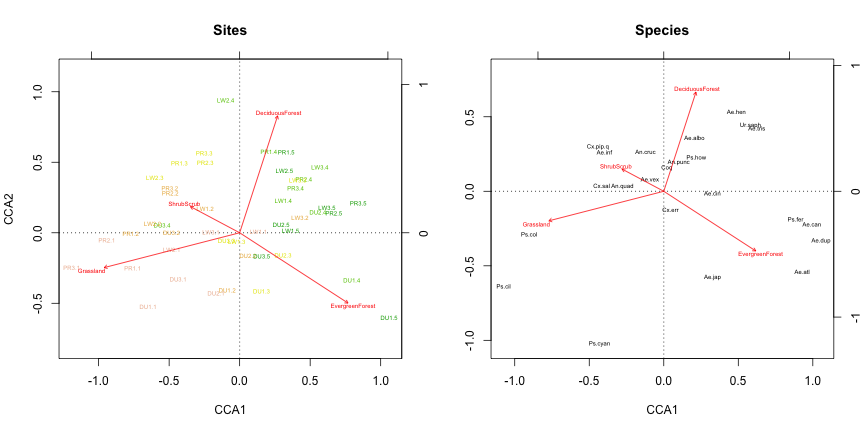
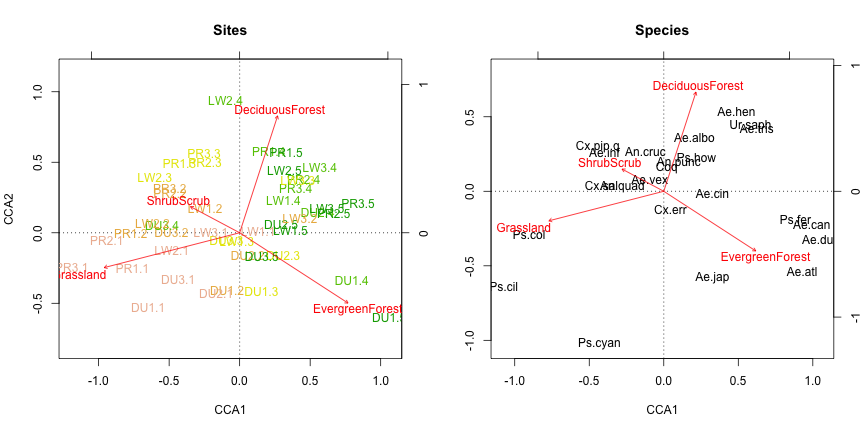
fix fig size

diff --git a/_posts/2017-05-23-mosquito-community-ecology-in-vegan.md b/_posts/2017-05-23-mosquito-community-ecology-in-vegan.md
@@ -1,5 +1,5 @@
 ---
-title: "Mosquito community diversity analysis in vegan"
+title: "Mosquito community diversity analysis with vegan"
 layout: post
 date: 2017-05-23
 tags: R tutorial ecology mosquitoes vegan
@@ -260,7 +260,7 @@ plot(my.ca)
 
 <img src="/assets/Rfigs/post_2017-04_mosquito-ecology_ca_biplot-1.png" title="plot of chunk post_2017-04_mosquito-ecology_ca_biplot" alt="plot of chunk post_2017-04_mosquito-ecology_ca_biplot" style="display: block; margin: auto;" />
 
-It is a bit difficult to see what is going on here. Let's see if we can make a visualization that is a little easier to understand. One thing we can try is adjusting the scaling of the site and species scores in our plot. The `plot.cca` function (which is called when you use `plot` on a `cca` results) has an argument `scaling` that takes four values: 0 = no scaling, 1 = sites scores are scaled by eigenvalues, 2 = species scores are scaled by eigenvalues (the default), and 3 = both species and site scores are scaled by eigenvalues (alternatively, options 0-3 can be specified less cryptically with the character strings "none", "sites", "species", and "symmetric"). Under option 1, site scores are weighted averages of species scores, and under option 2, species scores are weighted averages of site scores. Option 3 is a compromise between options 1 and 2, and is generally a [good option](https://academic.oup.com/biomet/article-abstract/89/2/423/255280/Goodness-of-fit-of-biplots-and-correspondence?redirectedFrom=fulltext) for displaying sites and species in one plot. 
+There are a few ways we can alter this plot to try to get a better picture of the data. One thing we can try is adjusting the scaling of the site and species scores in our plot. The `plot.cca` function (which is called when you use `plot` on a `cca` results) has an argument `scaling` that takes four values: 0 = no scaling, 1 = sites scores are scaled by eigenvalues, 2 = species scores are scaled by eigenvalues (the default), and 3 = both species and site scores are scaled by eigenvalues (alternatively, options 0-3 can be specified less cryptically with the character strings "none", "sites", "species", and "symmetric"). Under option 1, site scores are weighted averages of species scores, and under option 2, species scores are weighted averages of site scores. Option 3 is a compromise between options 1 and 2, and is generally a [good option](https://academic.oup.com/biomet/article-abstract/89/2/423/255280/Goodness-of-fit-of-biplots-and-correspondence?redirectedFrom=fulltext) for displaying sites and species in one plot. 
 
 Here is the effect these different options have on our plot:
 
@@ -276,7 +276,7 @@ plot(my.ca, scaling="symmetric", main="scaling = 3, both")
 
 <img src="/assets/Rfigs/post_2017-04_mosquito-ecology_ca_4biplot-1.png" title="plot of chunk post_2017-04_mosquito-ecology_ca_4biplot" alt="plot of chunk post_2017-04_mosquito-ecology_ca_4biplot" style="display: block; margin: auto;" />
 
-An alternative way to make more space on our plot is to simply display the sites and species on separate plots. Let's also add colors to our site labels to represent different habitats, as we did for the boxplots. 
+An alternative way to make more space on our plot is to simply display the sites and species on separate plots. Let's also add colors to our site labels to represent different habitats, and increase the size of the labels. 
 
 
 ```r
@@ -286,11 +286,11 @@ layout(matrix(1:2,1,2))
 # plot sites
 site.cols <- rep(terrain.colors(6)[5:1],9)
 plot(my.ca, display="sites", type="n", main="Sites", scaling="sites")
-text(my.ca, display="sites", col=site.cols, cex=0.5, scaling="sites")
+text(my.ca, display="sites", col=site.cols, scaling="sites")
 
 # plot species
 plot(my.ca, display="species", type="n", ylab="", main="Species", scaling="species")
-text(my.ca, display="species", col="black", cex=0.5, scaling="species")
+text(my.ca, display="species", col="black", scaling="species")
 ```
 
 <img src="/assets/Rfigs/post_2017-04_mosquito-ecology_ca_biplot_pretty-1.png" title="plot of chunk post_2017-04_mosquito-ecology_ca_biplot_pretty" alt="plot of chunk post_2017-04_mosquito-ecology_ca_biplot_pretty" style="display: block; margin: auto;" />
@@ -335,13 +335,13 @@ drop1(my.cca, test="perm")
 ```
 
 ```
->                  Df    AIC      F Pr(>F)   
->  <none>             41.478                 
->  DeciduousForest  1 42.643 2.8418  0.040 * 
->  EvergreenForest  1 43.179 3.3425  0.010 **
->  Grassland        1 42.769 2.9589  0.055 . 
->  MixedForest      1 41.828 2.0902  0.125   
->  ShrubScrub       1 42.283 2.5082  0.065 . 
+>                  Df    AIC      F Pr(>F)  
+>  <none>             41.478                
+>  DeciduousForest  1 42.643 2.8418  0.045 *
+>  EvergreenForest  1 43.179 3.3425  0.025 *
+>  Grassland        1 42.769 2.9589  0.040 *
+>  MixedForest      1 41.828 2.0902  0.100 .
+>  ShrubScrub       1 42.283 2.5082  0.080 .
 >  ---
 >  Signif. codes:  0 '***' 0.001 '**' 0.01 '*' 0.05 '.' 0.1 ' ' 1
 ```
@@ -385,13 +385,13 @@ layout(matrix(1:2,1,2))
 
 # plot sites
 plot(my.cca, display=c("sites", "bp"), type="n", main="Sites", scaling="sites")
-text(my.cca, display="sites", col=site.cols, cex=0.5, scaling="sites")
-text(my.cca, display="bp", col="red", cex=0.5)
+text(my.cca, display="sites", col=site.cols, scaling="sites")
+text(my.cca, display="bp", col="red")
 
 # plot species
 plot(my.cca, display=c("species", "bp"), type="n", ylab="", main="Species", scaling="species")
-text(my.cca, display="species", col="black", cex=0.5, scaling="species")
-text(my.cca, display="bp", col="red", cex=0.5)
+text(my.cca, display="species", col="black", scaling="species")
+text(my.cca, display="bp", col="red")
 ```
 
 <img src="/assets/Rfigs/post_2017-04_mosquito-ecology_cca_biplot-1.png" title="plot of chunk post_2017-04_mosquito-ecology_cca_biplot" alt="plot of chunk post_2017-04_mosquito-ecology_cca_biplot" style="display: block; margin: auto;" />
@@ -424,9 +424,9 @@ anova(my.cca, by="margin")
 >  Model: cca(formula = abundance.matrix2 ~ DeciduousForest + EvergreenForest + Grassland + ShrubScrub, data = fixed)
 >                  Df ChiSquare      F Pr(>F)  
 >  DeciduousForest  1   0.03706 1.9912  0.108  
->  EvergreenForest  1   0.04684 2.5172  0.052 .
->  Grassland        1   0.06610 3.5516  0.033 *
->  ShrubScrub       1   0.04907 2.6369  0.063 .
+>  EvergreenForest  1   0.04684 2.5172  0.064 .
+>  Grassland        1   0.06610 3.5516  0.021 *
+>  ShrubScrub       1   0.04907 2.6369  0.045 *
 >  Residual        40   0.74440                
 >  ---
 >  Signif. codes:  0 '***' 0.001 '**' 0.01 '*' 0.05 '.' 0.1 ' ' 1
@@ -489,13 +489,13 @@ layout(matrix(1:2,1,2))
 
 # plot sites
 plot(my.pcca, display=c("sites", "bp"), type="n", main="Sites", scaling="sites")
-text(my.pcca, display="sites", col=site.cols, cex=0.5, scaling="sites")
-text(my.pcca, display="bp", col="red", cex=0.5)
+text(my.pcca, display="sites", col=site.cols, scaling="sites")
+text(my.pcca, display="bp", col="red")
 
 # plot species
 plot(my.pcca, display=c("species", "bp"), type="n", ylab="", main="Species", scaling="species")
-text(my.pcca, display="species", col="black", cex=0.5, scaling="species")
-text(my.pcca, display="bp", col="red", cex=0.5)
+text(my.pcca, display="species", col="black", scaling="species")
+text(my.pcca, display="bp", col="red")
 ```
 
 <img src="/assets/Rfigs/post_2017-04_mosquito-ecology_pcca_biplot-1.png" title="plot of chunk post_2017-04_mosquito-ecology_pcca_biplot" alt="plot of chunk post_2017-04_mosquito-ecology_pcca_biplot" style="display: block; margin: auto;" />
@@ -542,6 +542,6 @@ One of the most confusing things about ordination is figuring out how the differ
 
 *For more information on species diversity indices, the `vegan` documentation is great and will point you toward any more specific literature you might want to look at. Try `?diversity` and `?rarefy`.*
 
-*For more information on ordination methods, the `vegan` package provides a simple introduction in this [vignette](https://www.google.com/url?sa=t&rct=j&q=&esrc=s&source=web&cd=1&ved=0ahUKEwjMjZqX6sXTAhVKQyYKHZ4rC34QFggnMAA&url=https%3A%2F%2Fcran.r-project.org%2Fweb%2Fpackages%2Fvegan%2Fvignettes%2Fintro-vegan.pdf&usg=AFQjCNHp03BO8RXf4FdIuhAZbD_q0cLk6w&sig2=cKxb2fsAOL4Zkurcf6-68g), and the package author provides a more thorough introduction in this [tutorial](https://www.google.com/url?sa=t&rct=j&q=&esrc=s&source=web&cd=3&ved=0ahUKEwjMjZqX6sXTAhVKQyYKHZ4rC34QFgg-MAI&url=http%3A%2F%2Fcc.oulu.fi%2F~jarioksa%2Fopetus%2Fmetodi%2Fvegantutor.pdf&usg=AFQjCNHsvyIZ380_KPgiGMqah_gA5V2jLQ&sig2=POfHX13ym8lEOQhLWZtmDg).*
+*For more information on ordination methods, the `vegan` package provides a simple introduction in this [vignette](https://www.google.com/url?sa=t&rct=j&q=&esrc=s&source=web&cd=1&ved=0ahUKEwjMjZqX6sXTAhVKQyYKHZ4rC34QFggnMAA&url=https%3A%2F%2Fcran.r-project.org%2Fweb%2Fpackages%2Fvegan%2Fvignettes%2Fintro-vegan.pdf&usg=AFQjCNHp03BO8RXf4FdIuhAZbD_q0cLk6w&sig2=cKxb2fsAOL4Zkurcf6-68g), and the package author provides a more thorough introduction in this [tutorial](https://www.google.com/url?sa=t&rct=j&q=&esrc=s&source=web&cd=3&ved=0ahUKEwjMjZqX6sXTAhVKQyYKHZ4rC34QFgg-MAI&url=http%3A%2F%2Fcc.oulu.fi%2F~jarioksa%2Fopetus%2Fmetodi%2Fvegantutor.pdf&usg=AFQjCNHsvyIZ380_KPgiGMqah_gA5V2jLQ&sig2=POfHX13ym8lEOQhLWZtmDg). A good tutorial for customizing the appearance of `vegan` ordination plots can be found [here](http://www.fromthebottomoftheheap.net/2012/04/11/customising-vegans-ordination-plots/)*
 
 *R code from our published [paper](/assets/pdfs/Reiskind_etal_2016.pdf) is available on [GitHub](https://github.com/rgriff23/Mosquito_ecology).
